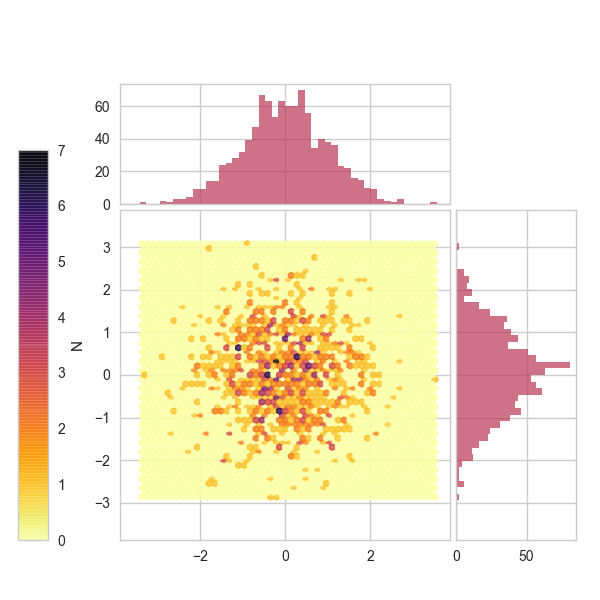
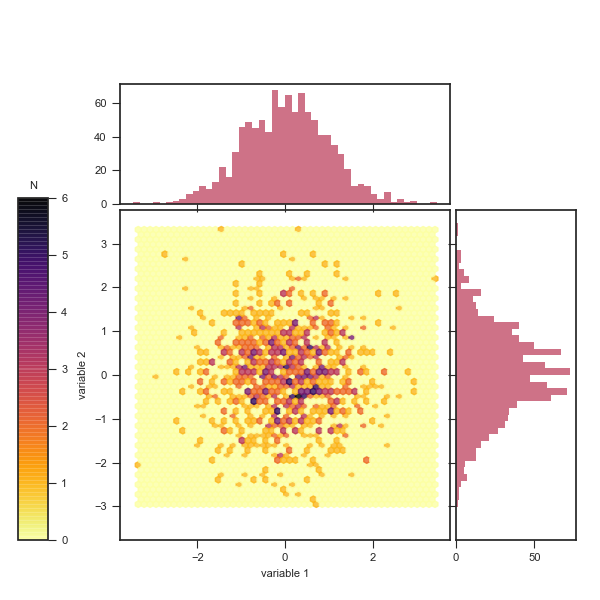
added example

diff --git a/ExampleUsage.py b/ExampleUsage.py
@@ -1,10 +1,16 @@
 import numpy as np
 import qplots
 
+#import seaborn # this breaks my fontsize argument =/
+#seaborn.set_style("whitegrid") 
+
 # the random data
 x = np.random.randn(1000)
 y = np.random.randn(1000)
 
-fig, axscatter, axhistx, axhisty, cm = qplots.joint_plot(x, y)
+fig, axscatter, axhistx, axhisty, cm = qplots.joint_plot(x, y, fontsize=8)
+axscatter.set_xlabel("variable 1")
+axscatter.set_ylabel("variable 2")
+qplots.show()
 
 fig.savefig("Example.png")
